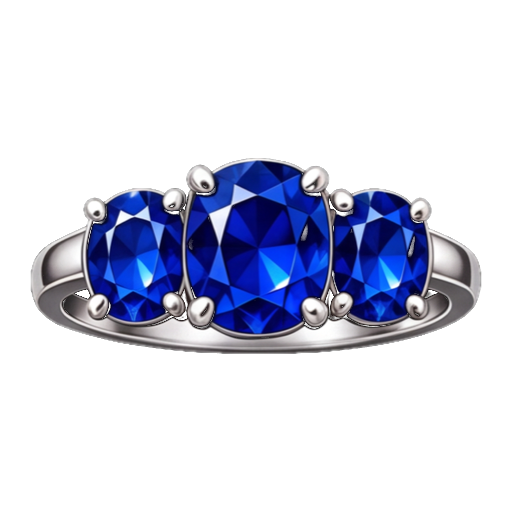
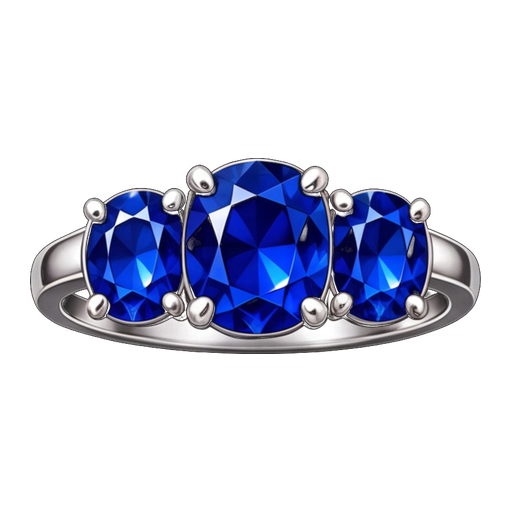
Essai assets : détourage des bijoux par la luminosité (les deux brins des chaînes sont gardés)

diff --git a/docs/JOURNAL.md b/docs/JOURNAL.md
@@ -8,7 +8,7 @@ Entrée la plus récente en haut. Format : date · qui · avec quel outil.
 **Essai, pas une décision** : des photos générées à la place du dessin par code vont contre le §6 (« tout en code », « pas d'assets graphiques »). À montrer à Mathys avant toute fusion.
 
 **Fait**
-- **15 bijoux au saphir en photo** (`ios/PearlInc/Art/JewelPhotos/jewel-saphir-<type>-<style>.png`, 512 px, fond transparent) : planche de référence n° 11 de Jules refaite dans Kling (modèle Nano Banana Pro, 35 crédits : trop cher, Kling 3.0 Omni à 4 crédits pour la suite), découpée en grille et détourée avec Vision (`VNGenerateForegroundInstanceMaskRequest`).
+- **15 bijoux au saphir en photo** (`ios/PearlInc/Art/JewelPhotos/jewel-saphir-<type>-<style>.png`, 512 px, fond transparent) : planche de référence n° 11 de Jules refaite dans Kling (modèle Nano Banana Pro, 35 crédits : trop cher, Kling 3.0 Omni à 4 crédits pour la suite), découpée en grille et détourée par la luminosité (fond noir pur → transparent ; Vision perdait les brins de chaîne trop fins).
 - `JewelArt.draw` affiche la photo `jewel-<rareté>-<type>-<style>` si elle existe et si le bijou est dans le métal par défaut de sa rareté (or blanc pour le saphir), sinon le dessin habituel. `-JewelDrawn` force le dessin. `Canvas2D.drawImage` ajouté.
 
 **Reste à faire**
